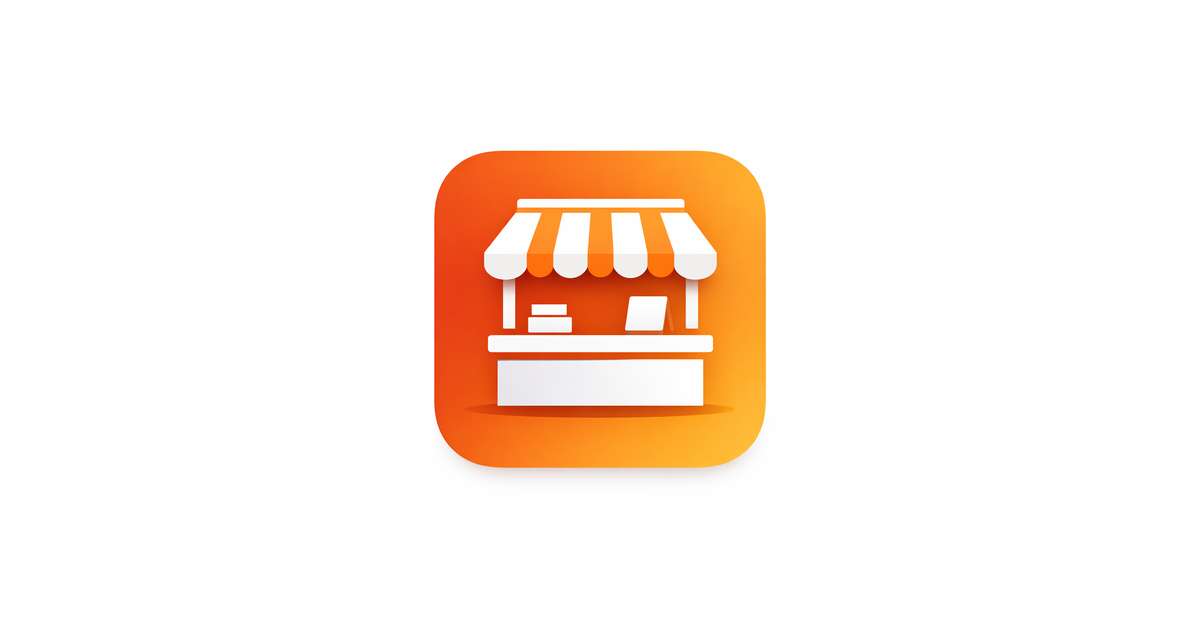
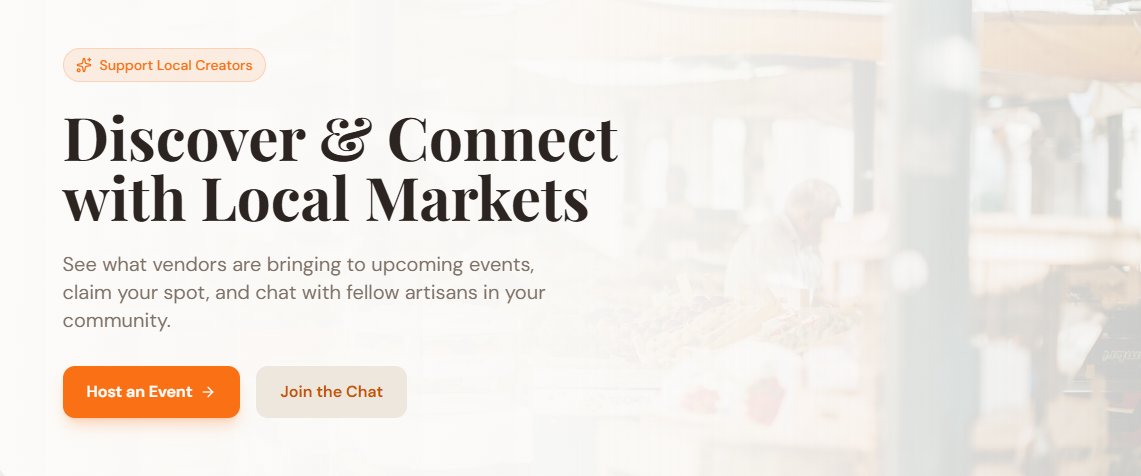
feat: add Open Graph + Twitter Card meta tags with hero screenshot as og-image

diff --git a/artifacts/vendorgrid/index.html b/artifacts/vendorgrid/index.html
@@ -5,10 +5,28 @@
     <meta name="viewport" content="width=device-width, initial-scale=1.0, maximum-scale=1" />
     <meta name="color-scheme" content="light" />
     <title>VendorGrid</title>
+    <meta name="description" content="Discover local artisan markets, connect with vendors, and find upcoming events near you." />
     <link rel="icon" type="image/png" sizes="32x32" href="/favicon.png" />
     <link rel="icon" type="image/png" sizes="192x192" href="/icon-192.png" />
     <link rel="apple-touch-icon" sizes="180x180" href="/apple-touch-icon.png" />
     <meta name="theme-color" content="#F97016" />
+
+    <!-- Open Graph (Facebook, iMessage, LinkedIn, Slack, etc.) -->
+    <meta property="og:type" content="website" />
+    <meta property="og:url" content="https://www.vendorgrid.net/" />
+    <meta property="og:title" content="VendorGrid — Discover Local Artisan Markets" />
+    <meta property="og:description" content="Discover local artisan markets, connect with vendors, and find upcoming events near you." />
+    <meta property="og:image" content="https://www.vendorgrid.net/og-image.png" />
+    <meta property="og:image:width" content="1200" />
+    <meta property="og:image:height" content="630" />
+    <meta property="og:site_name" content="VendorGrid" />
+
+    <!-- Twitter / X Card -->
+    <meta name="twitter:card" content="summary_large_image" />
+    <meta name="twitter:url" content="https://www.vendorgrid.net/" />
+    <meta name="twitter:title" content="VendorGrid — Discover Local Artisan Markets" />
+    <meta name="twitter:description" content="Discover local artisan markets, connect with vendors, and find upcoming events near you." />
+    <meta name="twitter:image" content="https://www.vendorgrid.net/og-image.png" />
     <link rel="preconnect" href="https://fonts.googleapis.com">
     <link rel="preconnect" href="https://fonts.gstatic.com" crossorigin>
     <link href="https://fonts.googleapis.com/css2?family=Architects+Daughter&family=DM+Sans:ital,opsz,wght@0,9..40,100..1000;1,9..40,100..1000&family=Fira+Code:wght@300..700&family=Geist+Mono:wght@100..900&family=Geist:wght@100..900&family=IBM+Plex+Mono:ital,wght@0,100;0,200;0,300;0,400;0,500;0,600;0,700;1,100;1,200;1,300;1,400;1,500;1,600;1,700&family=IBM+Plex+Sans:ital,wght@0,100..700;1,100..700&family=Inter:ital,opsz,wght@0,14..32,100..900;1,14..32,100..900&family=JetBrains+Mono:ital,wght@0,100..800;1,100..800&family=Libre+Baskerville:ital,wght@0,400;0,700;1,400&family=Lora:ital,wght@0,400..700;1,400..700&family=Merriweather:ital,opsz,wght@0,18..144,300..900;1,18..144,300..900&family=Montserrat:ital,wght@0,100..900;1,100..900&family=Open+Sans:ital,wght@0,300..800;1,300..800&family=Outfit:wght@100..900&family=Oxanium:wght@200..800&family=Playfair+Display:ital,wght@0,400..900;1,400..900&family=Plus+Jakarta+Sans:ital,wght@0,200..800;1,200..800&family=Poppins:ital,wght@0,100;0,200;0,300;0,400;0,500;0,600;0,700;0,800;0,900;1,100;1,200;1,300;1,400;1,500;1,600;1,700;1,800;1,900&family=Roboto+Mono:ital,wght@0,100..700;1,100..700&family=Roboto:ital,wght@0,100..900;1,100..900&family=Source+Code+Pro:ital,wght@0,200..900;1,200..900&family=Source+Serif+4:ital,opsz,wght@0,8..60,200..900;1,8..60,200..900&family=Space+Grotesk:wght@300..700&family=Space+Mono:ital,wght@0,400;0,700;1,400;1,700&display=swap" rel="stylesheet">